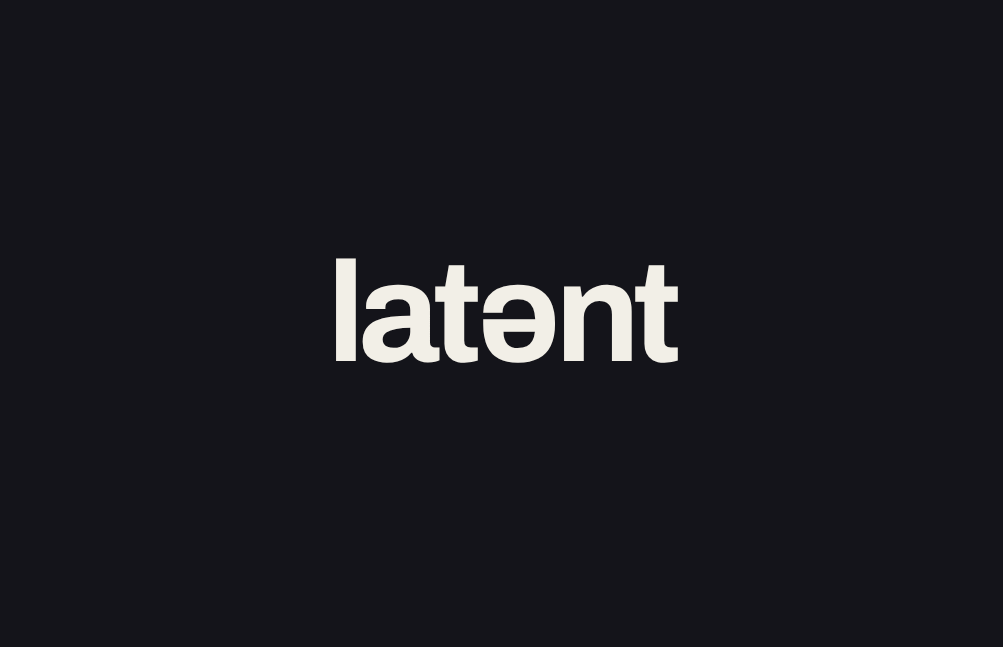
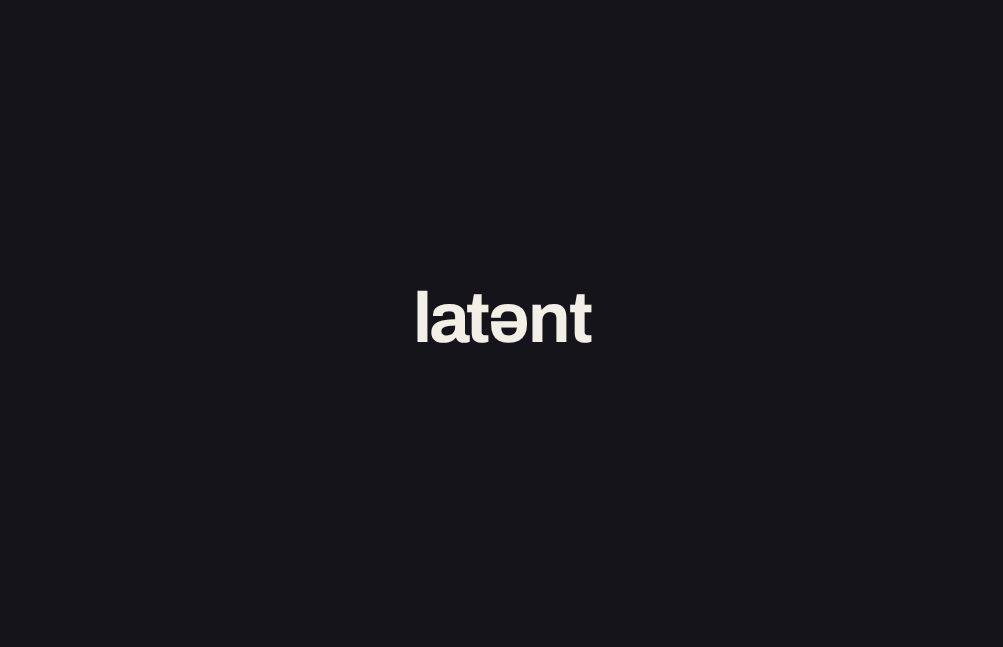
Business card: minimal premium cut, smaller wordmark, single-column back
Claude-Session: https://claude.ai/code/session_0142D8cuVtdJreCuNyu9fMo2

Changed region(s): [[0.3091, 0.4019, 0.68, 0.5873]]

diff --git a/latent-card/source/card.html b/latent-card/source/card.html
@@ -5,38 +5,33 @@
 @font-face{font-family:"Archivo";font-weight:400;src:url("fonts/Archivo_normal_400.woff2") format("woff2")}
 @font-face{font-family:"IBM Plex Mono";font-weight:400;src:url("fonts/IBM_Plex_Mono_normal_400.woff2") format("woff2")}
 @font-face{font-family:"IBM Plex Mono";font-weight:500;src:url("fonts/IBM_Plex_Mono_normal_500.woff2") format("woff2")}
-:root{--ink:#14141A;--ivory:#F2EFE7;--marrow:#BB4A2E;--stone:#7C776E;--bleed:3mm}
+:root{--ink:#14141A;--ivory:#F2EFE7;--marrow:#BB4A2E;--stone:#8A857B;--bleed:3mm}
 *{box-sizing:border-box}
 @page{size:91mm 61mm;margin:0}
 html,body{margin:0;padding:0;background:#fff;-webkit-font-smoothing:antialiased;-webkit-print-color-adjust:exact;print-color-adjust:exact}
-/* each face is a page: trim 85 × 55 mm inside 3 mm of bleed */
 .page{width:91mm;height:61mm;position:relative;overflow:hidden;page-break-after:always;break-after:page}
 .page:last-child{page-break-after:auto;break-after:auto}
 .face{position:absolute;left:var(--bleed);top:var(--bleed);width:85mm;height:55mm}
 .front{background:var(--ink);color:var(--ivory)}
 .back{background:var(--ivory);color:var(--ink)}
-/* the wordmark: display grotesk, extra-bold, tracked −4.5%, always lowercase, the schwa a letter */
+/* wordmark: display grotesk, extra-bold, tracked −4.5%, lowercase, the schwa a letter — small, alone in the dark */
 .wm{font-family:"Archivo";font-weight:700;letter-spacing:-.045em;line-height:1;margin:0}
-.front .wm{position:absolute;left:50%;top:50%;transform:translate(-50%,-56%);font-size:34pt}
-/* back: 5 mm safe margin inside the trim */
-.back .in{position:absolute;left:6mm;top:6mm;right:6mm;bottom:6mm}
-.mark{font-family:"Archivo";font-weight:700;font-size:15pt;line-height:1;position:absolute;left:0;top:0}
-.route{position:absolute;right:0;top:1.2mm;font-family:"IBM Plex Mono";font-size:5.6pt;letter-spacing:.14em;text-transform:lowercase;color:var(--stone)}
-.name{position:absolute;left:0;top:16.2mm;margin:0;font-family:"Archivo";font-weight:600;font-size:13pt;letter-spacing:-.02em;line-height:1}
-.title{position:absolute;left:0;top:22.6mm;margin:0;font-family:"IBM Plex Mono";font-weight:500;font-size:6pt;letter-spacing:.18em;text-transform:uppercase;color:var(--marrow)}
-.rule{position:absolute;left:0;right:0;top:28.6mm;height:0.25mm;background:var(--ink)}
-.lines{position:absolute;left:0;bottom:0;margin:0;font-family:"IBM Plex Mono";font-size:6.2pt;letter-spacing:.06em;line-height:1.75;color:var(--ink)}
-.lines b{font-weight:400;color:var(--stone);display:inline-block;width:11mm}
-.small{position:absolute;right:0;bottom:0;font-family:"IBM Plex Mono";font-size:5.4pt;letter-spacing:.14em;text-transform:uppercase;color:var(--stone);text-align:right;line-height:1.75}
+.front .wm{position:absolute;left:50%;top:50%;transform:translate(-50%,-56%);font-size:17pt}
+/* back: one column, 7 mm inside the trim, everything sits on the bottom margin */
+.back .in{position:absolute;left:7mm;top:7mm;right:7mm;bottom:7mm}
+.mark{font-family:"Archivo";font-weight:700;font-size:10pt;line-height:1;position:absolute;left:0;top:0;color:var(--ink)}
+.who{position:absolute;left:0;bottom:15.2mm;margin:0}
+.name{margin:0;font-family:"Archivo";font-weight:500;font-size:9.5pt;letter-spacing:-.01em;line-height:1}
+.title{margin:1.9mm 0 0;font-family:"IBM Plex Mono";font-weight:400;font-size:5.4pt;letter-spacing:.12em;text-transform:uppercase;color:var(--stone)}
+.lines{position:absolute;left:0;bottom:0;margin:0;font-family:"IBM Plex Mono";font-weight:400;font-size:5.8pt;letter-spacing:.02em;line-height:1.7;color:var(--ink)}
+.lines a{color:inherit;text-decoration:none}
+.route{position:absolute;right:0;bottom:0;margin:0;font-family:"IBM Plex Mono";font-size:5.2pt;letter-spacing:.12em;color:var(--stone);line-height:1.7}
 </style></head><body>
 <div class="page"><div class="face front" id="front"><p class="wm">latənt</p></div></div>
 <div class="page"><div class="face back" id="back"><div class="in">
   <span class="mark" aria-hidden="true">ə</span>
-  <span class="route">amman → worldwide</span>
-  <p class="name">Laith Al Qasem</p>
-  <p class="title">CEO · Art Director</p>
-  <i class="rule"></i>
-  <p class="lines"><span><b>T</b>+962 79 987 7131</span><br><span><b>E</b>latentstudio.jo@gmail.com</span><br><span><b>W</b>latent-studio-ai.com</span></p>
-  <p class="small">Latent Studio<br>@latentstudio.jo</p>
+  <div class="who"><p class="name">Laith Al Qasem</p><p class="title">CEO · Art Director</p></div>
+  <p class="lines">+962 79 987 7131<br>latentstudio.jo@gmail.com<br>latent-studio-ai.com</p>
+  <p class="route">amman</p>
 </div></div></div>
 </body></html>
